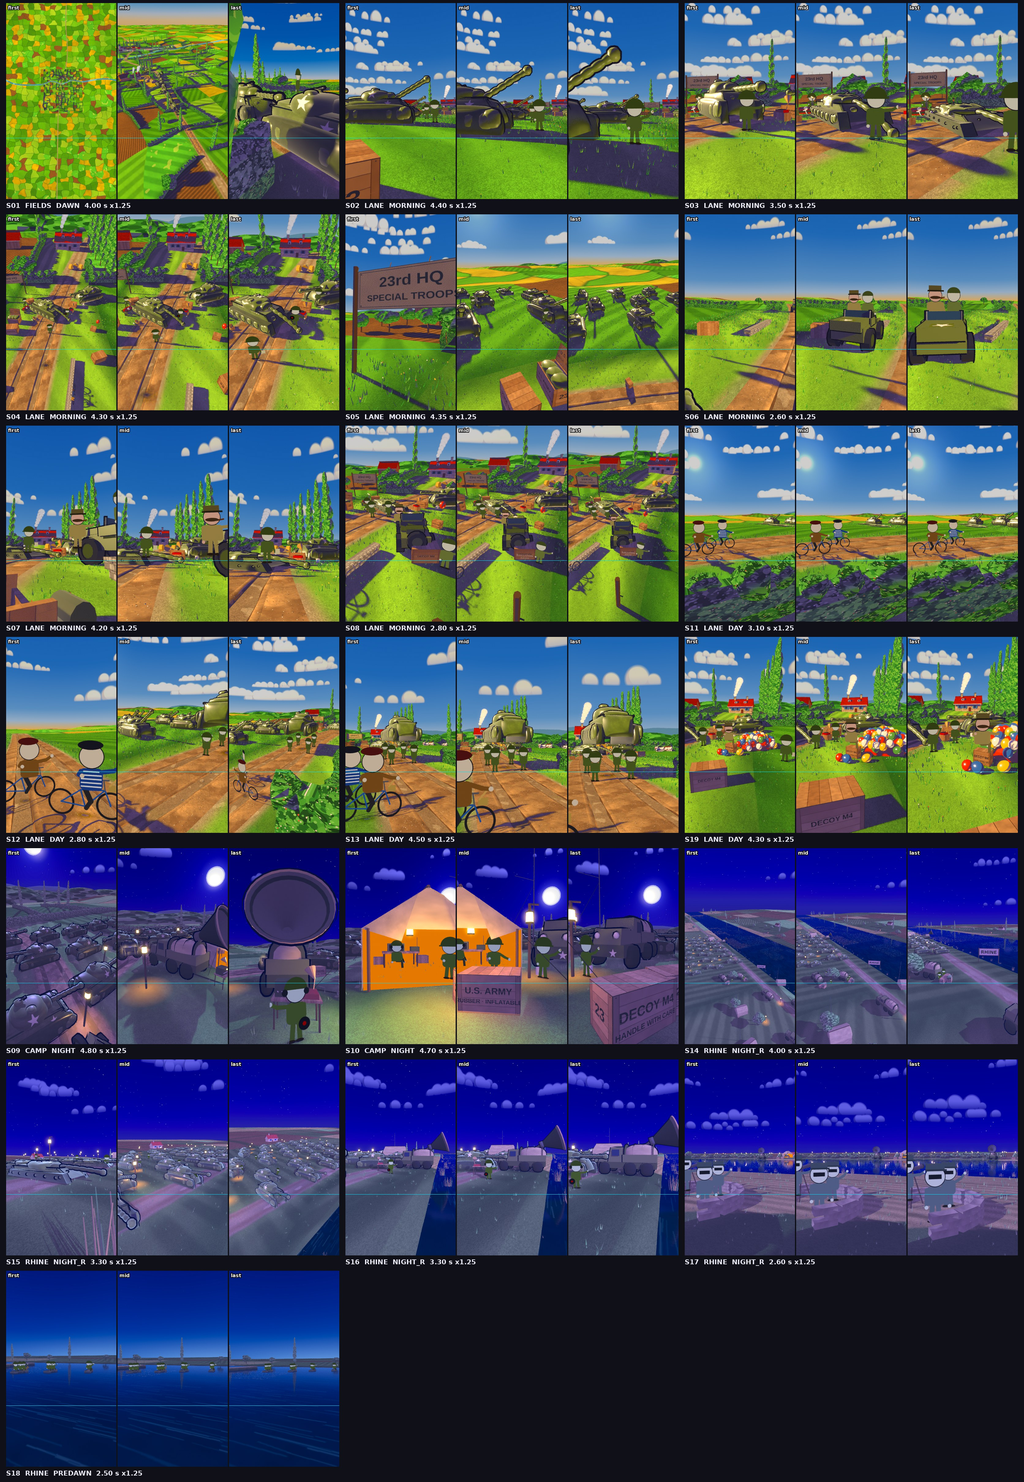
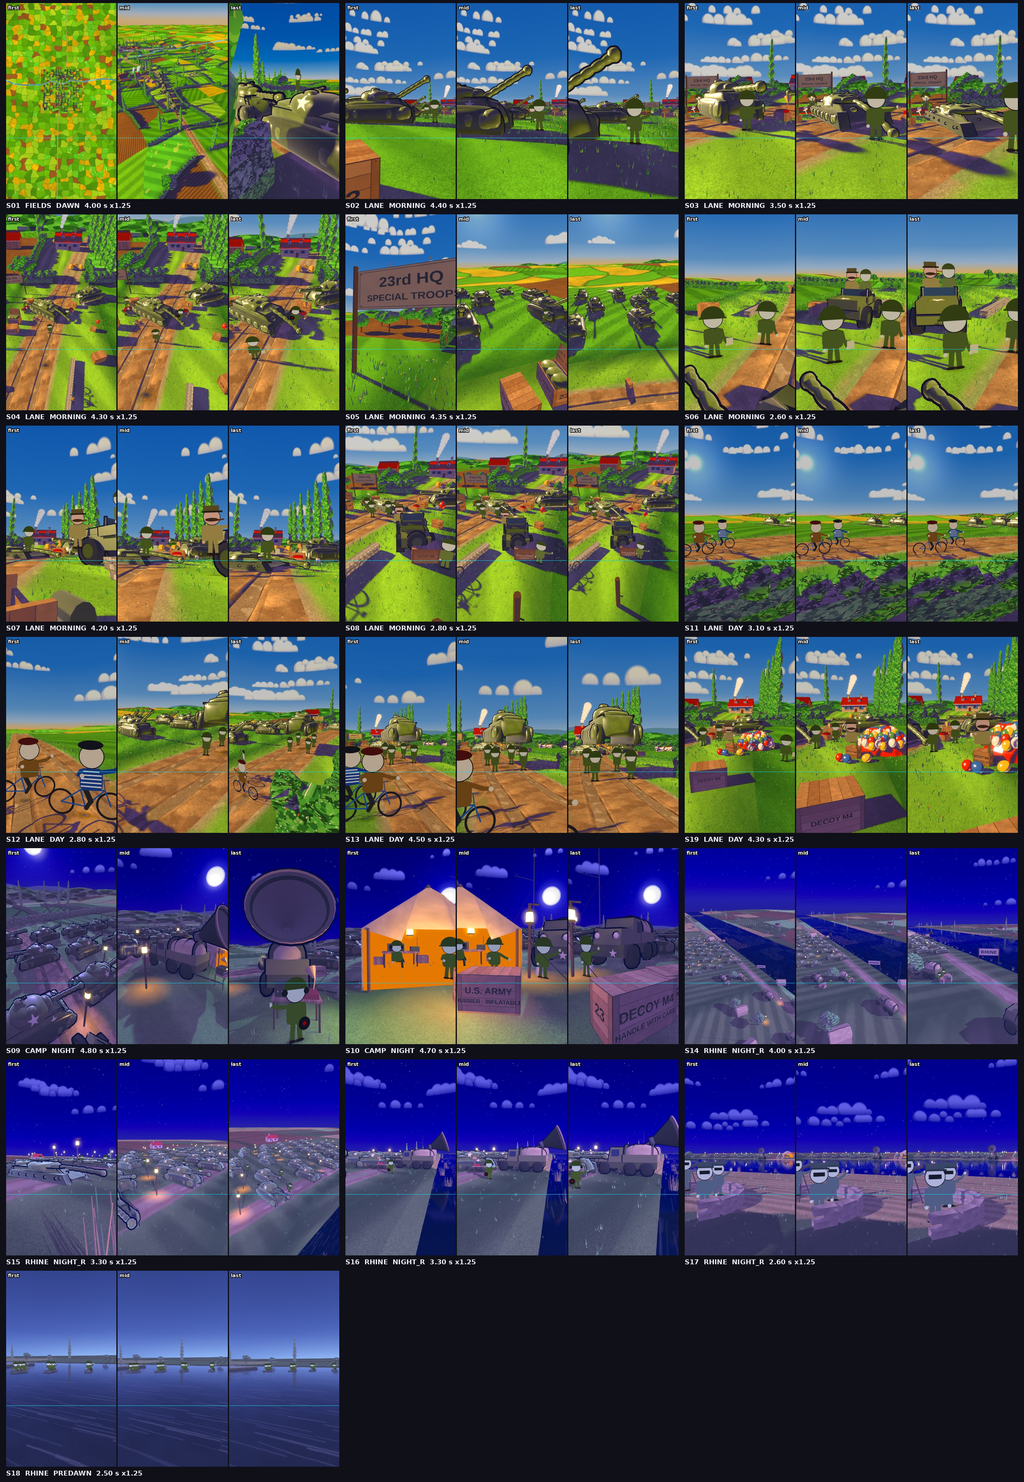
film23: full set v1 (4 locations, 19 cameras, marks, setters, ground check pass)
Claude-Session: https://claude.ai/code/session_017iwyCvaJWY9eX1YmLisr8P

diff --git a/film/v3/set3d23/ghost_rhine.py b/film/v3/set3d23/ghost_rhine.py
@@ -3,7 +3,7 @@
 the US bank is west (x < -38), the German bank east (x > 38).
   decoy field   south-west, x -60 .. -140, y -150 .. -20: 42 rubber tanks `decoy0..41` in 6 rows facing the river (set_inflate each; S15 inflates
                 rows), 12 lantern poles with tight halos and pools, the sound truck `sound_truck_r` (-52, -70) with its horn toward the enemy and its
-                gramophone desk (`record`), the radio tent (-64, -48), crates '30th INF DIV' / '79th INF DIV', two trucks unloading rubber crates at
+                gramophone desk (`record`), the radio tent (-52, -36), crates '30th INF DIV' / '79th INF DIV', two trucks unloading rubber crates at
                 (-78, -177) / (-93, -172), the riverbank sign 'RHINE' (-50, -179)
   the crossing  north, y 330 .. 400: a pontoon bridge (two thirds built) and five assault boats `boat0..4` crossing (set_boats), in blue pre-dawn
   German OP     east bank (60, -60): a sandbag ring, a small plank hut, a telescope on a tripod; comic, no fired weapons
@@ -26,7 +26,7 @@ def _rnd(s): return random.Random(s)
 HALF = 38.0; WATER_Z = -0.6
 def xc(y): return -2.0 + 6.0 * math.sin(y * 0.004)
 DECOYS = [(-62.0 - 13.0 * r + (3.0 if r % 2 else 0.0), -150.0 + 19.0 * i + (6.0 if r % 2 else 0.0)) for r in range(6) for i in range(7)]
-TRUCK = (-52.0, -70.0, 180.0); TENT = (-66.0, -48.0, 100.0); OP = (60.0, -60.0); SIGN = (-50.0, -179.0, -36.9)
+TRUCK = (-52.0, -70.0, 180.0); TENT = (-52.0, -36.0, 100.0); OP = (60.0, -60.0); SIGN = (-50.0, -179.0, -36.9)
 UNLOAD = [(-78.0, -177.0, 120.0), (-93.0, -172.0, 100.0)]
 BRIDGE_Y = 380.0; BOAT_Y = (338.0, 348.0, 357.0, 366.0, 330.0)
 
@@ -59,7 +59,7 @@ def build(Bk, M, shot):
     for i, (x, y) in enumerate(DECOYS):
         ob = PR.make_tank('decoy%d' % i, (x, y, gz(x, y)), rr.uniform(-6, 6), M, lod=0.95 if (x > -90) else 0.7, seed=1 + i % 3, hull=0.12, elev=4.0 * (i % 4))
         ob['gc_role'] = 'prop'; STATE['props'].append((ob, 5.8, True))
-    for k, (x, y) in enumerate([(-68.5 - 13 * r, -141 + 19 * i + 9.5 * (r % 2)) for r in range(6) for i in range(0, 7, 2)]):
+    for k, (x, y) in enumerate([(-62.0 - 13 * r + 3.0 * (r % 2), -140.5 + 19 * i + 6.0 * (r % 2)) for r in range(6) for i in range(0, 7, 2)]):
         with Bk.prop('lantern', shadow_r=0.6): lantern_pole(Bk, M, (x, y), gz, h=5.2, light=1000.0, halo_r=0.8, name='lpr_%d' % k)
     stk = PR.make_obj(PR.truck_mesh(M, 1.0, False, True, seed=3), 'sound_truck_r', (TRUCK[0], TRUCK[1], gz(*TRUCK[:2])), TRUCK[2], hull=0.14); stk['gc_role'] = 'prop'; STATE['props'].append((stk, 6.4, True))
     import ghost_camp as GC
@@ -107,7 +107,7 @@ def river(Bk, M, gz):
     out = N('ShaderNodeOutputMaterial'); tc = N('ShaderNodeTexCoord'); mp = N('ShaderNodeMapping'); mp.inputs['Scale'].default_value = (1 / 24.0, 1 / 24.0, 1.0); L(tc.outputs['Object'], mp.inputs['Vector'])
     tw = N('ShaderNodeTexImage'); tw.image = T._img(tx['water_night']); L(mp.outputs['Vector'], tw.inputs['Vector'])
     em = N('ShaderNodeEmission'); em.inputs['Strength'].default_value = 0.32
-    tn = N('ShaderNodeMix'); tn.data_type = 'RGBA'; tn.blend_type = 'MULTIPLY'; tn.inputs[0].default_value = 1.0; tn.inputs[7].default_value = (1.35, 0.92, 1.0, 1); L(tw.outputs['Color'], tn.inputs[6]); L(tn.outputs[2], em.inputs['Color'])
+    tn = N('ShaderNodeMix'); tn.data_type = 'RGBA'; tn.blend_type = 'MULTIPLY'; tn.inputs[0].default_value = 1.0; tn.inputs[7].default_value = (2.4, 0.7, 1.0, 1); L(tw.outputs['Color'], tn.inputs[6]); L(tn.outputs[2], em.inputs['Color'])
     wv = N('ShaderNodeTexWave'); wv.wave_type = 'BANDS'; wv.bands_direction = 'Y'; wv.inputs['Scale'].default_value = 0.9; wv.inputs['Distortion'].default_value = 6.0; wv.inputs['Detail'].default_value = 3.0
     mp2 = N('ShaderNodeMapping'); mp2.inputs['Scale'].default_value = (0.25, 1.6, 1.0); L(tc.outputs['Object'], mp2.inputs['Vector']); L(mp2.outputs['Vector'], wv.inputs['Vector'])
     bu = N('ShaderNodeBump'); bu.inputs['Strength'].default_value = 0.22; L(wv.outputs['Fac'], bu.inputs['Height'])

diff --git a/film/v3/set3d23/ghost_shot_table.py b/film/v3/set3d23/ghost_shot_table.py
@@ -43,9 +43,9 @@ shot(5, 16.20, 20.55, 'LANE', 'MORNING', C((-10.5, 20.0, 4.0), (-15.0, 27.2, 4.4
      note='pull back and up past the 23rd HQ SPECIAL TROOPS sign: a dozen men vs a field filling with rubber tanks', fg=None,
      marks=dict(crew=[M_(x + 3.6, y - 3.2, pose=('pump' if i % 3 == 0 else 'carry' if i % 3 == 1 else 'stand')) for i, (x, y) in enumerate(_F)]))
 # S06 OTS from behind the crew toward the jeep pulling up; the Major laughs in the passenger seat
-shot(6, 20.60, 23.20, 'LANE', 'MORNING', C((1.6, 16.4, 4.6), (6.4, 1.0, 3.0), 24), dict(push=0.07, slide=-35, sdist=12.0),
+shot(6, 20.60, 23.20, 'LANE', 'MORNING', C((1.6, 16.4, 4.6), (6.4, 1.0, 0.6), 24), dict(zoom_rate=0.07, slide=-25, sdist=12.0),
      note='medium-wide OTS from behind the crew toward the jeep (set_jeep 0.55 -> 1)',
-     marks=dict(crew=[M_(-1.0, 8.6, ph='clipboard'), M_(-3.8, 10.2, ph='soldier')], major=[M_(-0.3, -0.75, ph='major', pose='sit', z=2.1, parent='jeep')],
+     marks=dict(crew=[M_(5.1, 10.2, ph='clipboard'), M_(2.4, 7.8, ph='soldier')], major=[M_(-0.3, -0.75, ph='major', pose='sit', z=2.1, parent='jeep')],
                 driver=[M_(-0.3, 0.75, ph='driver', pose='sit', z=2.1, parent='jeep')]), state='jeep=0.8,deflate=1')
 # S07 low angle on the Major (out of the jeep) pointing at the flat tank, slow push, crew small behind
 shot(7, 23.20, 27.40, 'LANE', 'MORNING', C((2.2, -3.8, 1.05), (4.8, 8.6, 3.7), 24), dict(push=0.07, slide=-30),
@@ -119,13 +119,13 @@ shot(14, 50.20, 54.20, 'RHINE', 'NIGHT_R', C((-128.0, -268.0, 74.0), (-30.0, -96
 shot(15, 54.30, 57.60, 'RHINE', 'NIGHT_R', C((-52.0, -162.0, 2.6), (-84.0, -112.0, 2.8), 22), dict(end=C((-40.0, -152.0, 18.0), (-92.0, -96.0, 0.0), 22)),
      note='crane up over rows inflating in lantern light (set_inflate decoyN staggered); pump crews',
      fg=('reeds', ('cam', 1.7, 0.9), 0, 0.9),
-     marks=dict(pumpcrew=[M_(-58.8, -131.4, ph='pumpman', pose='pump'), M_(-72.6, -119.0, ph='pumpman', pose='pump'), M_(-85.4, -128.4, ph='pumpman', pose='pump'),
-                          M_(-99.0, -112.0), M_(-111.6, -125.0, pose='carry')]))
+     marks=dict(pumpcrew=[M_(-62.0 + 1.5, -131.0 + 6.0, ph='pumpman', pose='pump'), M_(-72.0 + 1.5, -125.0 + 6.0, ph='pumpman', pose='pump'), M_(-88.0 + 1.5, -131.0 + 6.0, ph='pumpman', pose='pump'),
+                          M_(-98.0 + 1.5, -106.0 + 6.0), M_(-114.0 + 1.5, -112.0 + 6.0, pose='carry')]))
 # S16 push along the sound truck and the radio tent; crates stencilled 30th INF DIV / 79th INF DIV
 shot(16, 57.60, 60.90, 'RHINE', 'NIGHT_R', C((-45.5, -104.0, 4.5), (-60.0, -58.0, 2.5), 22), dict(push=0.07, slide=30, sdist=20.0),
      note='push along the sound truck and the radio tent; 30th / 79th INF DIV crates; sound truck booming (spin_record), radio chatter',
      fg=('lantern', ('cam', 1.9, -1.2), 0, 0.8),
-     marks=dict(soundman=[M_(-55.0, -80.6, ph='soundman', pose='point')], radioman=[M_(-64.6, -50.0, ph='radioman', pose='sit')], soldier=[M_(-53.0, -55.0, pose='carry')]))
+     marks=dict(soundman=[M_(-55.0, -80.6, ph='soundman', pose='point')], radioman=[M_(-51.6, -36.6, ph='radioman', pose='sit')], soldier=[M_(-53.0, -55.0, pose='carry')]))
 # S17 OTS from behind the German observers across the river to the glowing balloon field
 shot(17, 60.90, 63.50, 'RHINE', 'NIGHT_R', C((69.0, -53.6, 3.8), (-90.0, -104.0, 0.5), 24), dict(zoom_rate=0.08, slide=-25, sdist=10.0),
      note='OTS from behind the German observers (binoculars, a telescope) across the river to the glowing decoy field; one drops his sausage', fg=('sandbags', ('cam', 1.8, -0.9), 90, 0.9, 3),

diff --git a/film/v3/set3d23/ghost.py b/film/v3/set3d23/ghost.py
@@ -57,9 +57,9 @@ LIGHTS = dict(
 # set r1: the Rhine night (moon south-east, over the German bank: it rims the decoys toward the enemy and lights the river) and the pre-dawn blue
 LIGHTS['NIGHT'].update(sky='sky_night2', exposure=-0.2, shade=(0.31, 0.22, 0.58), shade_tint=(0.27, 0.17, 0.54), shade_mix=0.8, key=(0.44, 0.40, 1.25), grade_saturation=1.12)
 LIGHTS['MORNING'].update(sky_k=0.95)
-LIGHTS['NIGHT_R'] = dict(LIGHTS['NIGHT'], sun_az=-35.0, sun_el=26.0, sun_vis_el=21.0, sky='sky_night2r', exposure=0.3)
-LIGHTS['DAY'] = dict(LIGHTS['MORNING'], sun_az=200.0, sun_el=34.0, exposure=-0.7, sky_k=1.0)
-LIGHTS['PREDAWN'] = dict(LIGHTS['NIGHT'], key=(0.42, 0.56, 1.15), sun_az=8.0, sun_el=12.0, sun_vis_el=-8.0, sky='sky_predawn', lamps=0.4, exposure=0.05,
+LIGHTS['NIGHT_R'] = dict(LIGHTS['NIGHT'], sun_az=-35.0, sun_el=26.0, sun_vis_el=21.0, sky='sky_night2r', exposure=0.3, key=(0.58, 0.42, 1.25))
+LIGHTS['DAY'] = dict(LIGHTS['MORNING'], sun_az=200.0, sun_el=34.0, exposure=-0.9, sky_k=1.0, shade=(0.36, 0.17, 0.68), shade_tint=(0.28, 0.13, 0.54), shade_mix=0.92, fol_mix=0.92)
+LIGHTS['PREDAWN'] = dict(LIGHTS['NIGHT'], key=(0.42, 0.56, 1.15), sun_az=8.0, sun_el=12.0, sun_vis_el=-8.0, sky='sky_predawn', lamps=0.4, exposure=0.45, grade_saturation=0.92,
                          shade=(0.24, 0.30, 0.58), shade_tint=(0.22, 0.22, 0.54))
 for _k, _v in LIGHTS.items(): _v['key_dir'] = kd_of(_v['sun_az'], _v['sun_el'])
 SCENE_LIGHT = dict(dawn='DAWN', morning='MORNING', night='NIGHT', rhine='NIGHT_R')
@@ -594,7 +594,13 @@ def _place(ob, p_local, yaw, frame=None, ground=True):
 
 def set_inflate(name, v, frame=None):
     """Tank `name`: inflate 0 (flat rubber sheet) .. 1 (full).  Also sinks a flat tank's contact blob."""
-    ob = _own(_ob(name)); STATE['PR'].set_tank_shape(ob, inflate=v, frame=frame)
+    ob = _own(_ob(name)); STATE['PR'].set_tank_shape(ob, inflate=v, frame=frame); _resnap(ob, frame)
+
+def _resnap(ob, frame=None):
+    """A tank's lowest points move a little as it inflates: drop it back onto the ground (and key its z when keying)."""
+    if ob.get('airborne'): return
+    ground_snap(ob, max_move=1.0)
+    if frame is not None: _key(ob, 'location', frame, index=2)
 
 def set_sag(name, v, frame=None):
     """Tank `name`: barrel sag 0 (straight) .. 1 (limp)."""
@@ -606,7 +612,7 @@ def set_barrel(name, deg, frame=None):
 
 def set_deflate(v, frame=None, name='tank_hero'):
     """S03: the pricked hero tank goes 'ฟู่ แฟบ': v 0 (full, barrel straight) .. 1 (flat, barrel draped on the pricked soldier's helmet)."""
-    ob = _own(_ob(name)); v = max(0.0, min(1.0, v)); STATE['PR'].set_tank_shape(ob, inflate=1.0 - 0.82 * v, sag=min(1.0, v * 1.6), frame=frame)
+    ob = _own(_ob(name)); v = max(0.0, min(1.0, v)); STATE['PR'].set_tank_shape(ob, inflate=1.0 - 0.82 * v, sag=min(1.0, v * 1.6), frame=frame); _resnap(ob, frame)
 
 def set_lift(h, frame=None, name='tank_lift'):
     """S12 / S13: the 4-man lift.  h 0 = the tank on the grass, 1 = overhead (its belly 3.55 D up, on the four lifters' hands); flagged

diff --git a/film/v3/set3d23/ghost_lane.py b/film/v3/set3d23/ghost_lane.py
@@ -191,14 +191,14 @@ def build_pile(Bk, M, gz):
         tmp = PR._obj(mb, 'balmesh_' + k, STATE['SET']); meshes[k] = tmp.data; bpy.data.objects.remove(tmp, do_unlink=True)
         for p in meshes[k].polygons: p.use_smooth = True
     # core: a lumpy mound of mixed colour (radius PILE_R, height PILE_H at k = 1)
-    mb = PR.MB(); lumpy(mb, V(0, 0, 0), 1.0, mats['bal_r'], 5, seg=20, rings=10, rough=0.12, squash=1.0)
-    core = PR._obj(mb, 'pile_core', STATE['SET']); core['gc_role'] = 'prop'; core['gc_gap'] = 0.05
+    mb = PR.MB(); lumpy(mb, V(0, 0, 0), 1.0, mats['bal_r'], 5, seg=20, rings=10, rough=0.02, squash=1.0)
+    core = PR._obj(mb, 'pile_core', STATE['SET']); core['gc_role'] = 'ground'      # the heap's body, sunk into the grass: a surface the balloons rest on
     cz = gz(*PILE_C); core.location = (PILE_C[0], PILE_C[1], cz - 0.15); core.scale = (PILE_R, PILE_R * 0.85, PILE_H)
     rr = _rnd(61); bal = []
     for i in range(120):
         a = i * 2.39996 + rr.uniform(-0.2, 0.2); r = PILE_R * math.sqrt((i + 0.5) / 120.0) * 0.97; x = PILE_C[0] + r * math.cos(a); y = PILE_C[1] + r * math.sin(a) * 0.85
         k = cols[i % 5][1]; ob = bpy.data.objects.new('balloon%03d' % i, meshes[k]); STATE['SET'].objects.link(ob); GH.no_bounce(ob)
-        ob.rotation_euler = (rr.uniform(-0.9, 0.9), rr.uniform(-0.9, 0.9), rr.uniform(0, 6.3)); ob['gc_role'] = 'prop'; ob['gc_gap'] = 0.06
+        ob.rotation_euler = (rr.uniform(-0.08, 0.08), rr.uniform(-0.08, 0.08), rr.uniform(0, 6.3)); ob['gc_role'] = 'prop'; ob['gc_gap'] = 0.04
         bal.append((ob, x, y, r / PILE_R, cz))
     for j, (x, y) in enumerate(((SEAT[0] - 1.3, SEAT[1] - 0.9), (SEAT[0] + 0.9, SEAT[1] - 1.6), (SEAT[0] - 0.2, SEAT[1] - 2.0))):   # strays at his feet
         k = cols[j % 5][1]; ob = bpy.data.objects.new('balloon_s%d' % j, meshes[k]); STATE['SET'].objects.link(ob); ob.location = (x, y, gz(x, y) - 0.08); ob.rotation_euler = (1.4, 0, j * 2.0)
@@ -216,7 +216,7 @@ def set_pile(k, frame=None):
         if frame is not None: ob.keyframe_insert('hide_render', frame=frame)
     root = STATE['root'].matrix_world.translation
     for (ob, x, y, rn, cz) in Pp['balloons']:
-        vis = rn <= rk * 0.98; u = rn / rk if vis else 1.0
-        z = cz - 0.15 + PILE_H * hk * math.sqrt(max(0.0, 1.0 - u * u)) - 0.2
-        ob.location = (x + root.x, y + root.y, max(z, cz - 0.12) + root.z) if ob.parent is None else (x, y, max(z, cz - 0.12)); ob.hide_render = not vis
+        vis = rn <= min(rk * 0.98, 0.88); u = rn / rk if vis else 1.0
+        z = max(cz - 0.15 + PILE_H * hk * math.sqrt(max(0.0, 1.0 - u * u)), STATE['gz'](x, y)) - 0.1 - 0.35 * u ** 3
+        ob.location = (x + root.x, y + root.y, z + root.z) if ob.parent is None else (x, y, z); ob.hide_render = not vis
         if frame is not None: ob.keyframe_insert('location', frame=frame); ob.keyframe_insert('hide_render', frame=frame)

diff --git a/film/v3/set3d23/NOTES.md b/film/v3/set3d23/NOTES.md
@@ -1,0 +1,60 @@
+# Film 23 set (r1): builder notes and numbers
+
+Rebuild: `python3 ghost.py sheet` (19 shots x first / mid / last, 360x640, 6 samples -> `set_sheet.jpg`), `python3 ghost.py finals` (S01 S07 S09 S12 S14 S17
+first frame, 720x1280, 12 samples, OIDN -> `set_work/final/`, `set_finals.jpg`, `set_work/numbers.json`), `python3 ghost.py ground` (-> `GROUND_SET.md`).
+One bpy process per shot, one render at a time, Cycles CPU 4 threads, no DOF. API: `API.md`. Style board kept in `board/`.
+
+## Finals (first frame of the take, 720x1280, 12 samples) — ghost_hue.py
+| shot | location / light | sat (>= 0.47) | luma (day 85-110, night 70-95) | shade hue (240-260) | magenta % | vivid % | render wall s | cpu s | build s |
+|---|---|---|---|---|---|---|---|---|---|
+| S01 | FIELDS DAWN | 0.898 | 103.6 | 215.7 | 0.0 | 98.4 | 6.8 | 25.1 | 9.5 |
+| S07 | LANE MORNING | 0.637 | 104.1 | 243.3 | 0.2 | 71.7 | 6.3 | 23.1 | 7.4 |
+| S09 | CAMP NIGHT | 0.484 | 80.6 | 242.9 | 1.6 | 22.8 | 9.7 | 37.1 | 3.1 |
+| S12 | LANE DAY | 0.604 | 109.6 | 233.4 | 0.1 | 75.2 | 5.6 | 20.5 | 7.5 |
+| S14 | RHINE NIGHT_R | 0.574 | 81.3 | 237.5 | 0.6 | 44.3 | 7.8 | 29.3 | 10.1 |
+| S17 | RHINE NIGHT_R | 0.661 | 76.3 | 242.9 | 2.0 | 52.0 | 6.5 | 24.3 | 9.9 |
+
+Render time per final frame: 5.6-9.7 s wall (mean 7.1; 20-37 CPU s, 4 threads), plus a 3-10 s build per process.
+
+## Sheet drafts (mid frame of every shot, 360x640, 6 samples)
+| shot | loc / light | sat | luma | shade hue | magenta % | heads in band 880-950 (first/mid/last) |
+|---|---|---|---|---|---|---|
+| S01 | FIELDS DAWN | 0.658 | 99.4 | 245.1 | 0.2 | none |
+| S02 | LANE MORNING | 0.653 | 102.3 | 246.2 | 0.1 | none |
+| S03 | LANE MORNING | 0.560 | 115.0 | 248.2 | 0.2 | none |
+| S04 | LANE MORNING | 0.592 | 101.9 | 251.7 | 0.6 | none |
+| S05 | LANE MORNING | 0.609 | 106.5 | 256.9 | 0.6 | none |
+| S06 | LANE MORNING | 0.571 | 109.8 | 254.6 | 0.0 | none |
+| S07 | LANE MORNING | 0.660 | 108.5 | 236.0 | 0.1 | none |
+| S08 | LANE MORNING | 0.551 | 101.7 | 250.4 | 0.7 | none |
+| S09 | CAMP NIGHT | 0.531 | 78.2 | 240.3 | 0.3 | 1 |
+| S10 | CAMP NIGHT | 0.556 | 96.8 | 244.3 | 1.9 | none |
+| S11 | LANE DAY | 0.537 | 103.9 | 241.8 | 0.1 | none |
+| S12 | LANE DAY | 0.588 | 111.1 | 264.3 | 0.2 | none |
+| S13 | LANE DAY | 0.607 | 106.3 | 243.7 | 0.2 | none |
+| S14 | RHINE NIGHT_R | 0.598 | 80.2 | 236.9 | 0.4 | none |
+| S15 | RHINE NIGHT_R | 0.569 | 85.5 | 235.7 | 1.0 | none |
+| S16 | RHINE NIGHT_R | 0.660 | 73.4 | 235.6 | 0.4 | none |
+| S17 | RHINE NIGHT_R | 0.655 | 79.2 | 245.7 | 2.1 | none |
+| S18 | RHINE PREDAWN | 0.561 | 92.6 | 231.4 | 0.0 | none |
+| S19 | LANE DAY | 0.598 | 98.7 | 273.3 | 3.0 | none |
+
+## What changed from the board
+- One `build(location, shot)` for four locations in one world frame (FIELDS at the origin, LANE 700 D west and CAMP 760 D east inside the FIELDS far
+  patchwork ring, RHINE 9000 D north); the board's camera-relative layout was frozen into world positions.
+- Every prop is its own object (prop groups), ground-snapped by ray cast and given a contact blob; tanks are shape-keyed (inflate / sag / elev).
+- CAMP: tank rows broadside with turret + barrel, darker rubber with a thin cold moon rim (rim 1.25, power 3.2), only two nets, lantern halos 0.75 D,
+  crisp pools, no fog; the soldier is off the lantern pole and the foreground figure is gone. Night grade moved from cyan-blue to blue-violet (sky_night2).
+- RHINE is new: glossy rippled river with real reflections (one glossy bounce), a painted current layer and glint dashes; decoy field (42 tanks, 24
+  lanterns, sound truck, radio tent, 30th / 79th INF DIV crates, unloading trucks, RHINE sign); pontoon bridge + boats (PREDAWN); German OP.
+
+## Misses (honest)
+- Shade hue: S12 233 and S14 237 (target 240-260): the shaded pixels are lane dirt under the cyclists (S12) and the moonlit night fields (S14).
+  S01's first frame is a sun-lit top-down patchwork (1 % shaded pixels), so its 216 is not meaningful; its mid frame measures 245.
+- S09 vivid share is low (23 %) though mean saturation passes (0.48).
+- Sheet mid frames outside the bands: shade hue S07 236, S14-S16 235-237, S18 231 (pre-dawn blue), S12 264 and S19 273 (balloon reds / violet shadow
+  on the pile); luma S03 115 and S12 111 (day band 85-110). S09 / S15 each have one placeholder chin touching y 880 at one sampled frame (a
+  background card at the edge of a crane move).
+
+## Ground
+`GROUND_SET.md`: 18 537 checks over the 19 takes (every 10th frame, action states keyed in) + the four bare locations: 0 FAIL.

diff --git a/film/v3/set3d23/API.md b/film/v3/set3d23/API.md
@@ -37,7 +37,7 @@ Build takes 3-9 s, a 720x1280 12-sample frame about 4-9 s wall on 4 threads (NOT
 | FIELDS | DAWN | (0, 0, 0) | bocage valley, painted patchwork + 3D hedges/poplars; far patchwork ring to +-1900 D; the column `col0..col8` (+ `jeep_tow`) on the lane heading SSW, lead tank col0 at (-18, -20); farm (-30, 92) with netted tanks `park0..2`, trucks, gun, tents, jeeps, hay, cows; river y ~260; village + church y ~340 |
 | LANE | MORNING / DAY | (-700, -260, 0) | the farm lane 700 D west of the column (inside the FIELDS far ring): see ghost_lane.py docstring — hero tank `tank_hero` (-1.1, 16.9), `tank_paint` (12.5, 25), decoy field `field0..11` + flat sheets `flat0..2` (x -26..-62), sign (-14.5, 27.4), `jeep` path up the lane to (8.6, 4.2), `crate_chalk` (10.6, 1.4), lift `tank_lift` (-5, -30) [built only for S12/S13 and the bare location], ending seat (11.2, 9.4) + pile (14.8, 12.2), low hedge on the east verge y -114..-32 (cyclists) |
 | CAMP | NIGHT | (760, -180, 0) | tank rows `row0..16` (three rows, broadside, moon rim), `sound_truck` (-7.9, -9.2) + desk with `record`, radio tent (2.4, -5.3), `truck_paint` (13.5, -4.2) with the fresh badge, jeep, 7 lantern poles, crates, cables |
-| RHINE | NIGHT_R / PREDAWN (S18) | (0, 9000, 0) | river along +y (centre x = -2 + 6 sin(0.004 y), 76 D wide, water z -0.6); decoy field `decoy0..41` (x -62..-140, y -150..-20), 24 lanterns; `sound_truck_r` (-52, -70) + desk + `record`; radio tent (-66, -48); 30th / 79th INF DIV crates (-57, -60); unloading trucks (-78, -177) / (-93, -172); RHINE sign (-50, -179); convoy park y -205..-246; German OP (60, -60): sandbags, hut, telescope; pontoon bridge y 380; boats `boat0..4` |
+| RHINE | NIGHT_R / PREDAWN (S18) | (0, 9000, 0) | river along +y (centre x = -2 + 6 sin(0.004 y), 76 D wide, water z -0.6); decoy field `decoy0..41` (x -62..-140, y -150..-20), 24 lanterns; `sound_truck_r` (-52, -70) + desk + `record`; radio tent (-52, -36); 30th / 79th INF DIV crates (-57, -60); unloading trucks (-78, -177) / (-93, -172); RHINE sign (-50, -179); convoy park y -205..-246; German OP (60, -60): sandbags, hut, telescope; pontoon bridge y 380; boats `boat0..4` |
 
 Light presets: DAWN (low gold sun from the west-north-west, blue dawn sky), MORNING (board 2), DAY (sun south-west, LANE S11-S19), NIGHT (moon key, warm lamps),
 NIGHT_R (the Rhine moon in the south-east), PREDAWN (blue, a pale band low in the east, lamps dimmed). Shade is a painted blue-violet replacement colour (shade_cut).
@@ -140,9 +140,9 @@ Heights: soldier/major 3.0 D (+ hat), cyclist with bike 4.0 D card, dog 1.8 D. H
   - crew (12): (-22.4, -35.2) soldier/pump; (-22.4, -16.7) soldier/carry; (-22.4, 1.8) soldier/stand; (-22.4, 20.3) soldier/pump; (-38.4, -29.2) soldier/carry; (-38.4, -10.7) soldier/stand; (-38.4, 7.8) soldier/pump; (-38.4, 26.3) soldier/carry; (-54.4, -35.2) soldier/stand; (-54.4, -16.7) soldier/pump; (-54.4, 1.8) soldier/carry; (-54.4, 20.3) soldier/stand
 ### S06  (LANE, MORNING, 2.60 s planned -> 98 frames at x1.25, trans per plan)
 - medium-wide OTS from behind the crew toward the jeep (set_jeep 0.55 -> 1)
-- camera (local) start (1.6, 16.4, 4.6) -> (6.4, 1.0, 3.0) lens 24; planned end (3.8, 14.1, 4.3) -> (7.7, 1.4, 3.0) lens 24.0; tail end (4.1, 13.7, 4.3); move: push 0.07, slide -35, sdist 12.0
+- camera (local) start (1.6, 16.4, 4.6) -> (6.4, 1.0, 0.6) lens 24; planned end (2.5, 16.7, 4.6) -> (7.3, 1.3, 0.6) lens 29.2; tail end (2.7, 16.7, 4.6); move: zoom_rate 0.07, slide -25, sdist 12.0
 - state at build: `jeep=0.8,deflate=1`
-  - crew (2): (-1.0, 8.6) clipboard/stand; (5.8, 9.2) soldier/stand
+  - crew (2): (5.1, 10.2) clipboard/stand; (2.4, 7.8) soldier/stand
   - major (1): (-0.3, -0.8, z 2.10) major/sit on jeep
   - driver (1): (-0.3, 0.8, z 2.10) driver/sit on jeep
 ### S07  (LANE, MORNING, 4.20 s planned -> 158 frames at x1.25, trans per plan)

diff --git a/film/v3/set3d23/GROUND_SET.md b/film/v3/set3d23/GROUND_SET.md
@@ -10,27 +10,31 @@ glints, light-pool decals, mist, smoke) is HIDDEN from the rays while snapping a
 | shot | location | samples x objects checked | FAIL | airborne (flagged, skipped) |
 |---|---|---|---|---|
 | S01 | FIELDS | 624 rows, 39 objects | 0 | - |
-| S02 | - | not run | - | - |
-| S03 | - | not run | - | - |
-| S04 | - | not run | - | - |
-| S05 | - | not run | - | - |
-| S06 | - | not run | - | - |
+| S02 | LANE | 774 rows, 43 objects | 0 | balloon_loose |
+| S03 | LANE | 630 rows, 42 objects | 0 | balloon_loose |
+| S04 | LANE | 756 rows, 42 objects | 0 | balloon_loose |
+| S05 | LANE | 900 rows, 50 objects | 0 | balloon_loose |
+| S06 | LANE | 473 rows, 43 objects | 0 | balloon_loose |
 | S07 | LANE | 765 rows, 45 objects | 0 | balloon_loose |
-| S08 | - | not run | - | - |
-| S11 | - | not run | - | - |
+| S08 | LANE | 540 rows, 45 objects | 0 | balloon_loose |
+| S11 | LANE | 520 rows, 40 objects | 0 | balloon_loose |
 | S12 | LANE | 530 rows, 45 objects | 0 | balloon_loose, tank_lift |
-| S13 | - | not run | - | - |
-| S19 | - | not run | - | - |
-| S09 | - | not run | - | - |
-| S10 | - | not run | - | - |
-| S14 | - | not run | - | - |
-| S15 | - | not run | - | - |
-| S16 | - | not run | - | - |
-| S17 | - | not run | - | - |
-| S18 | - | not run | - | - |
+| S13 | LANE | 810 rows, 45 objects | 0 | balloon_loose, tank_lift |
+| S19 | LANE | 2559 rows, 145 objects | 0 | balloon_loose |
+| S09 | CAMP | 779 rows, 41 objects | 0 | - |
+| S10 | CAMP | 779 rows, 41 objects | 0 | - |
+| S14 | RHINE | 1680 rows, 105 objects | 0 | - |
+| S15 | RHINE | 1484 rows, 106 objects | 0 | - |
+| S16 | RHINE | 1470 rows, 105 objects | 0 | - |
+| S17 | RHINE | 1155 rows, 105 objects | 0 | - |
+| S18 | RHINE | 1309 rows, 119 objects | 0 | - |
 
-**Total: 1919 checks, 0 FAIL.**
+**Total: 18537 checks, 0 FAIL.**
 
+- FIELDS bare location: - checked objects: 36   rows: 36   FAIL rows: 0   **result: PASS** (set_work/ground/GROUND_FIELDS.md)
+- LANE bare location: - checked objects: 39   rows: 39   FAIL rows: 0   **result: PASS** (set_work/ground/GROUND_LANE.md)
+- CAMP bare location: - checked objects: 37   rows: 37   FAIL rows: 0   **result: PASS** (set_work/ground/GROUND_CAMP.md)
+- RHINE bare location: - checked objects: 101   rows: 101   FAIL rows: 0   **result: PASS** (set_work/ground/GROUND_RHINE.md)
 
 ## Allowed off the ground (flagged `airborne`)
 - `tank_lift` while lifted (S12 / S13, the ONLY airborne tank); its contact blob stays on the grass and shrinks.
